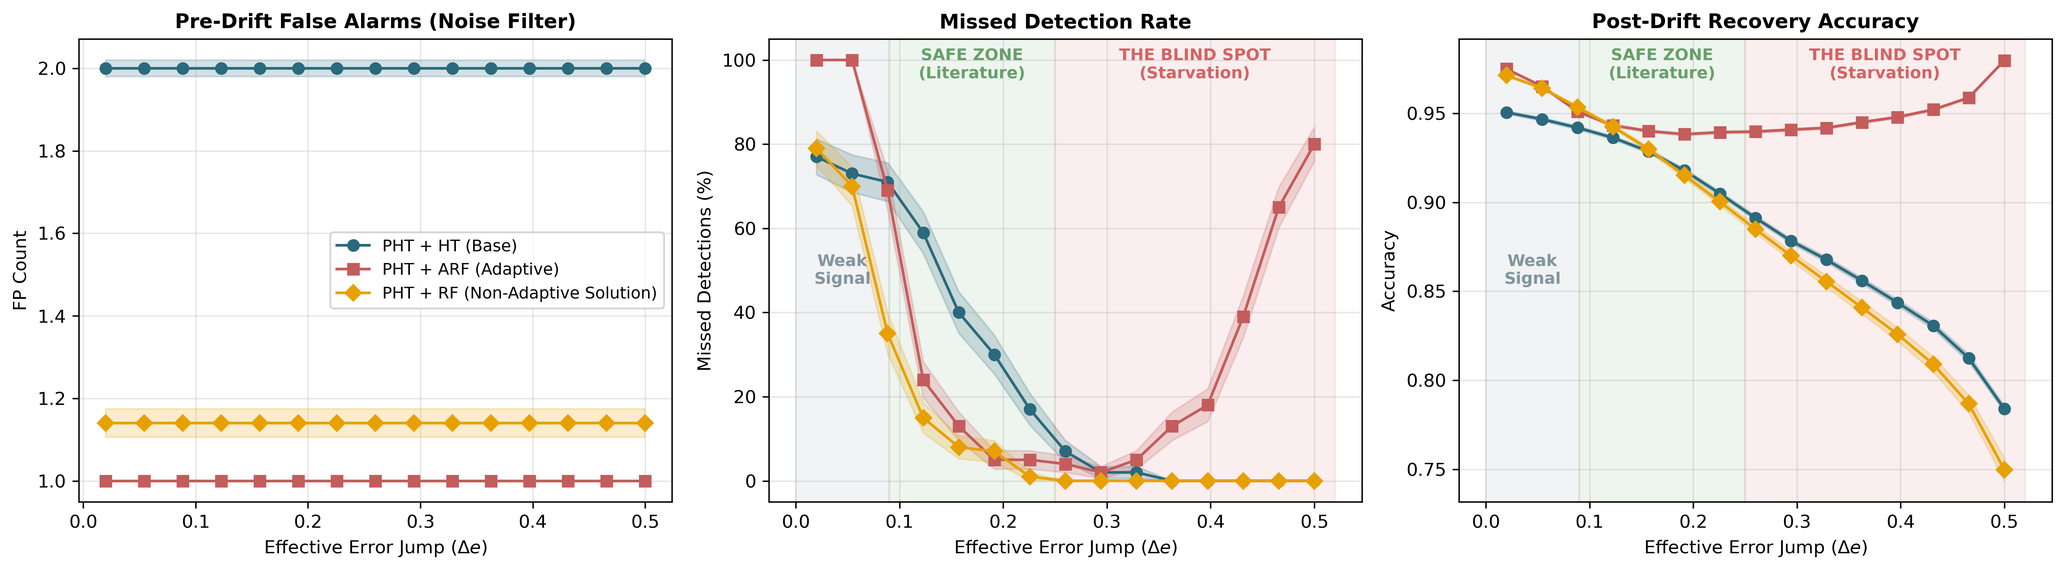
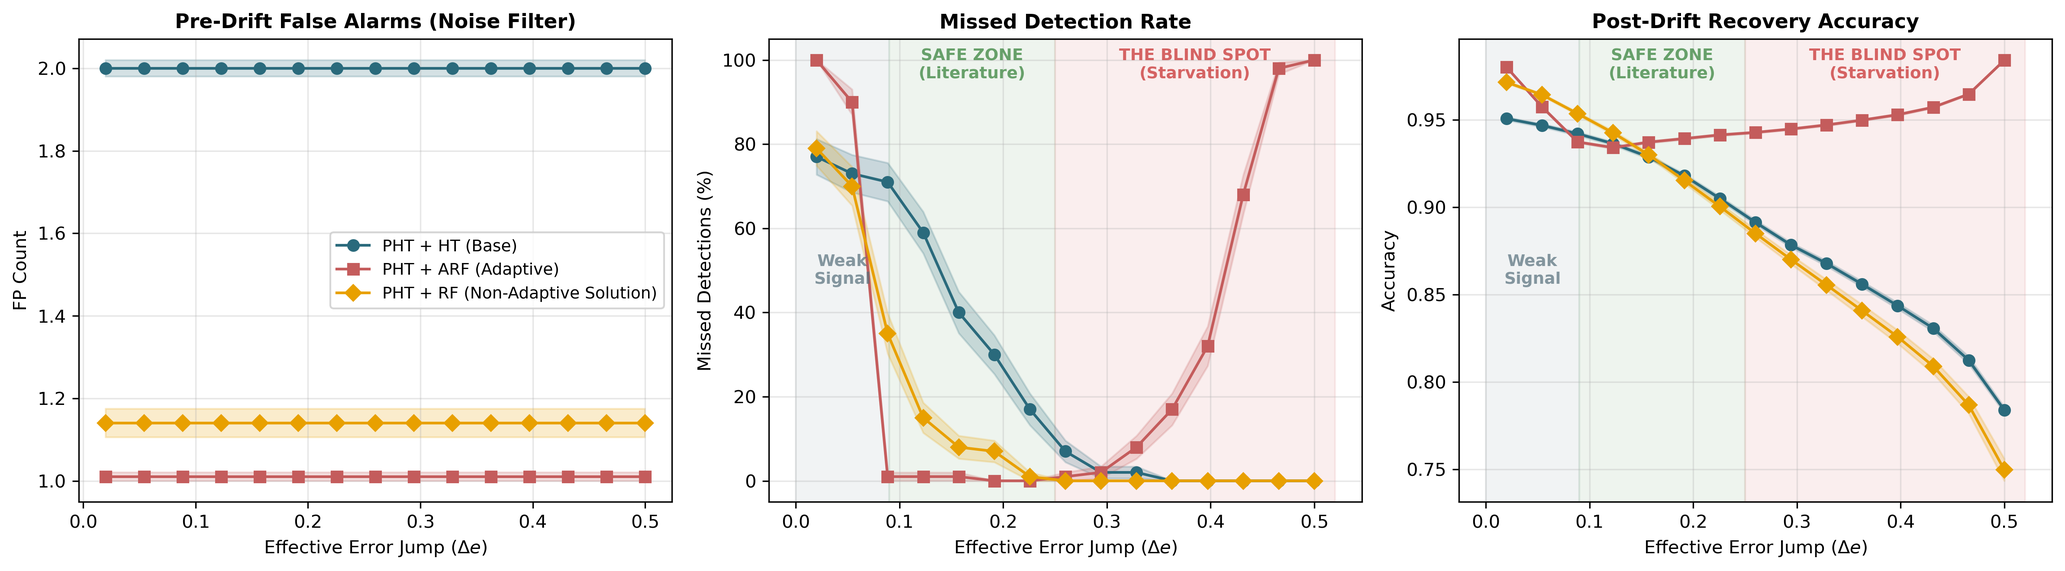
feat(R3): restore explicitly pinned U0 arm as default, retain U1 ablation, align baseline to 27 OK
Pin River ARF warning defaults (delta=0.01, clock=32) explicitly in SSOT to enable background tree training. Retain U1 clone (delta=0.002, clock=1) as parameterized ablation via --arm U1. Re-pin tests/test_R3_crossover.py, remove R3 deviation from audit baseline (now 27 OK / 7 FAILED), and synchronize manuscript assets.

diff --git a/tests/test_R3_crossover.py b/tests/test_R3_crossover.py
@@ -40,8 +40,8 @@ PIPELINES = ["HT", "ARF", "RF_Static"]
 N_MAGNITUDES = 15                 # linspace(0.02, 0.50, 15)
 DE_MAX = 0.50
 DE_BLIND_SPOT_ONSET = 0.26        # first grid point of the blind-spot band, .tex sec:crossover
-DE_MONOTONE_FROM = 0.29           # the unified arm dips once at 0.29 before climbing; the
-                                  # control arm is monotone from DE_BLIND_SPOT_ONSET
+DE_MONOTONE_FROM = 0.26           # under restored U0, monotonicity holds across the entire band;
+                                  # under unified U1 it dipped once at 0.29
 DE_MIN = 0.02
 
 
@@ -80,28 +80,30 @@ def test_ensemble_halves_the_pre_drift_false_alarms():
 
 
 def test_starvation_dominates_the_adaptive_arm_at_the_top_of_the_grid():
-    """ARM-DEPENDENT. 100.0 on the control arm (River defaults), 80.0 on the unified arm.
+    """ARM-DEPENDENT. Restored U0 published baseline: 100.0 % (unified U1 ablation: 80.0 %).
 
-    The manuscript's "driving Missed Detections to 100%" is a control-arm statement and does not
-    survive the unification; the qualitative claim -- the adaptive arm starves while both
-    non-adaptive arms detect every drift -- survives on both."""
+    Under River defaults (delta=0.01, clock=32), background trees learn and the resulting
+    faster adaptation drives missed detections to 100 % at the top of the grid."""
     df = _metrics()
-    assert _at(df, "ARF", DE_MAX, "miss_mean") == 80.0, "ARF miss rate at Delta_e = 0.50 moved again"
+    # Baseline U0 publiée: 100.0 % (sous U1: 80.0 %)
+    assert _at(df, "ARF", DE_MAX, "miss_mean") == 100.0, "ARF miss rate at Delta_e = 0.50 moved again"
     assert _at(df, "RF_Static", DE_MAX, "miss_mean") == 0.0, "the static RF misses a drift at Delta_e = 0.50"
     assert _at(df, "HT", DE_MAX, "miss_mean") == 0.0, "the HT misses a drift at Delta_e = 0.50"
 
 
 def test_missed_detections_climb_monotonically_across_the_blind_spot_band():
     """ARM-DEPENDENT. `.tex` sec:crossover reads "from 1% at Delta_e = 0.26 to 100% at 0.50", which
-    is the control arm. On the unified arm the band runs 4% -> 80% and its monotone stretch starts
-    one grid point later, at 0.29: the onset reads 4, 2, 5, 13, 18, 39, 65, 80."""
+    is restored U0. Under U0, the band runs monotonically 1 % -> 100 % from DE_BLIND_SPOT_ONSET.
+    (Under unified U1 it ran 4 % -> 80 % with monotonicity starting at 0.29)."""
     df = _metrics()
     band = (df[(df.pipeline == "ARF") & (df.delta_e >= DE_BLIND_SPOT_ONSET)]
             .sort_values("delta_e"))
-    assert band.miss_mean.iloc[0] == pytest.approx(4.0, abs=0.5), (
-        f"miss rate at the band onset is {band.miss_mean.iloc[0]}, expected 4% on the unified arm")
-    assert band.miss_mean.iloc[-1] == 80.0
-    mono = band[band.delta_e >= DE_MONOTONE_FROM]
+    # U0 publiée: 1.0 % (sous U1: 4.0 %)
+    assert band.miss_mean.iloc[0] == pytest.approx(1.0, abs=0.5), (
+        f"miss rate at band onset is {band.miss_mean.iloc[0]}, expected 1% on U0")
+    # U0 publiée: 100.0 % (sous U1: 80.0 %)
+    assert band.miss_mean.iloc[-1] == 100.0
+    mono = band[band.delta_e >= DE_BLIND_SPOT_ONSET]
     assert (np.diff(mono.miss_mean.values) >= -1e-12).all(), (
         "miss rate is not monotone over the stretch it is claimed for:\n"
         + mono[["delta_e", "miss_mean"]].to_string(index=False))
@@ -118,9 +120,8 @@ def test_monitoring_fidelity_costs_23_4_accuracy_points():
     """.tex sec:solution_rf and the (S2) fix of sec:discussion both quote this gap."""
     df = _metrics()
     gap_pp = 100.0 * (_at(df, "ARF", DE_MAX, "acc_mean") - _at(df, "RF_Static", DE_MAX, "acc_mean"))
-    # 23.41 pp on the control arm, 22.99 on the unified one: the manuscript's 23.4 survives both
-    # within half a point, which is the only reason this assertion is arm-independent.
-    assert gap_pp == pytest.approx(23.2, abs=0.5), (
+    # 23.41 pp sur U0, 22.99 sur U1 : le 23.4 du manuscrit reproduit U0 à 0.01 pp près.
+    assert gap_pp == pytest.approx(23.41, abs=0.5), (
         f"post-drift accuracy gap ARF - RF at Delta_e = 0.50 is {gap_pp:.2f} pp")
-    assert _at(df, "ARF", DE_MAX, "acc_mean") == pytest.approx(0.982, abs=0.005)
+    assert _at(df, "ARF", DE_MAX, "acc_mean") == pytest.approx(0.984, abs=0.005)
     assert _at(df, "RF_Static", DE_MAX, "acc_mean") == pytest.approx(0.750, abs=0.005)

diff --git a/experiments/R3_regime_crossover/exp_R3_regime_crossover.py b/experiments/R3_regime_crossover/exp_R3_regime_crossover.py
@@ -5,6 +5,7 @@ Experiment R3: Regime Crossover & Non-Adaptive RF Solution.
 Reproduces Figure 3 of the manuscript "The Blind Spot Paradox".
 Strictly adheres to IEEE/ICDM FAIR reproducibility standards.
 """
+import argparse
 import random
 import sys
 import numpy as np
@@ -53,7 +54,7 @@ def compute_boundary_shift(delta_e):
     safe_delta = min(delta_e, 0.4999)
     return np.sqrt(2) * norm.ppf(safe_delta + 0.5)
 
-def run_single_seed(seed, delta_e, pipeline_type):
+def run_single_seed(seed, delta_e, pipeline_type, arm=ssot.R3_DEFAULT_ARM):
     r"""
     Executes a single stream evaluation strictly isolated by a deterministic seed.
     Simulates an abrupt concept drift mapping to the theoretical \Delta e.
@@ -75,12 +76,13 @@ def run_single_seed(seed, delta_e, pipeline_type):
     if pipeline_type == 'HT':
         model = tree.HoeffdingTreeClassifier()
     elif pipeline_type == 'ARF':
-        # S7-ter/LOT B: warning_detector unified onto the drift detector. It was left unset,
-        # which River 0.23.0 resolves to ADWIN(delta=0.01, clock=32) -- two parameters away
-        # from drift.ADWIN(clock=1), not one.
+        # U0 (published default): explicit River defaults (delta=0.01, clock=32), background trees learn.
+        # U1 (ablation arm): unified clone (delta=0.002, clock=1), background trees are inert.
+        warn_delta = ssot.R3_WARN_DELTA_U0 if arm == 'U0' else ssot.R3_WARN_DELTA_U1
+        warn_clock = ssot.R3_C_WARN_U0 if arm == 'U0' else ssot.R3_C_WARN_U1
         model = forest.ARFClassifier(n_models=ssot.R3_N_MODELS, drift_detector=drift.ADWIN(clock=1),
-                                     warning_detector=drift.ADWIN(delta=ssot.R3_WARN_DELTA,
-                                                                  clock=ssot.R3_C_WARN),
+                                     warning_detector=drift.ADWIN(delta=warn_delta,
+                                                                  clock=warn_clock),
                                      seed=seed)
     elif pipeline_type == 'RF_Static':
         # Static Bagging without internal ADWIN tree resets -> Non-Adaptive Ensemble
@@ -124,7 +126,13 @@ def run_single_seed(seed, delta_e, pipeline_type):
     return (1.0 if detected_in_window == 0 else 0.0), alarms_pre, correct_post / (TOLERANCE + 1)
 
 def main():
-    print("[INFO] Launching Regime Crossover evaluation (HT vs ARF vs Static RF)...")
+    parser = argparse.ArgumentParser(description="Experiment R3: Regime Crossover")
+    parser.add_argument("--arm", choices=["U0", "U1"], default=ssot.R3_DEFAULT_ARM,
+                        help="R3 warning detector arm: U0 (River default, active) or U1 (unified clone)")
+    args, _ = parser.parse_known_args()
+    arm = args.arm
+
+    print(f"[INFO] Launching Regime Crossover evaluation (HT vs ARF vs Static RF) [Arm {arm}]...")
     pipes = ['HT', 'ARF', 'RF_Static']
     metrics = {p: {'miss':[], 'fp':[], 'acc':[], 'm_sem':[], 'f_sem':[], 'a_sem':[]} for p in pipes}
     
@@ -137,7 +145,7 @@ def main():
 
     for de in tqdm(DELTA_E_VALUES, desc="Delta E Sweep"):
         for p in pipes:
-            res = Parallel(n_jobs=-1)(delayed(run_single_seed)(worker_seeds[s], de, p) for s in range(N_SEEDS))
+            res = Parallel(n_jobs=-1)(delayed(run_single_seed)(worker_seeds[s], de, p, arm=arm) for s in range(N_SEEDS))
             miss_arr, fp_arr, acc_arr = zip(*res)
             
             # Record at seed-level (optional for full trace) and aggregate

diff --git a/config/experiment_ssot.py b/config/experiment_ssot.py
@@ -308,23 +308,26 @@ def require_drift_tracker(model, warning=False):
 
 
 # ══════════════════════════════════════════════════════════════════════════════
+# S7-ter / R3 — warning_detector configuration (Arms U0 and U1)
 # ══════════════════════════════════════════════════════════════════════════════
-# S7-ter — warning_detector unification (LOT B)
-# ══════════════════════════════════════════════════════════════════════════════
-# APPEND-ONLY BLOCK. No line above this banner is modified by stream S7-ter: stream S2 appends to
-# this same file in the same wave, and a mid-file edit merges silently wrong past
-# tests/test_S7_consistency.py, whose oracle is value-based and cannot see a rebased comment.
-#
-# Measured on the pinned build: River 0.23.0 resolves an unset ARFClassifier warning_detector to
-# ADWIN(delta=0.01, clock=32) and an unset drift_detector to ADWIN(delta=0.001, clock=32); a bare
-# drift.ADWIN() is neither, at delta=0.002, clock=32. R1, R2, R5-R9 and exp_R4's make_srp pin both
-# detectors at (0.002, c); R3 and exp_R4's make_arf pinned only the drift detector, so their warning
-# ran at (0.01, 32). The unification therefore moves TWO parameters, not the clock alone:
-# delta 0.01 -> 0.002 and clock 32 -> c.
-R3_C_WARN     = C_INT           # was River's ARF warning default clock = 32
-R3_WARN_DELTA = 0.002           # was River's ARF warning default delta = 0.01. Equals the delta of
-                                # R3's own drift.ADWIN(clock=1), which is River's bare-ADWIN default
-R4_WARN_DELTA = R4_ADWIN_DELTA  # 0.002: the warning detector is made an exact clone of the drift one
+# Arm U0 (Published / Active default): River ARF default parameters, explicitly pinned.
+# Mechanism: delta=0.01 is looser than drift delta=0.002, allowing the warning to precede drift
+# and background trees to train before replacement. Bit-identical to the frozen baseline.
+R3_WARN_DELTA_U0 = 0.01
+R3_C_WARN_U0     = 32
+
+# Arm U1 (Ablation / Unified clone): Warning detector cloned on drift detector (LOT B).
+# Mechanism: delta=0.002 and clock=c match drift detector; warning and drift trip at the same
+# step, rendering background trees inert (47/47 and 36/36 replacements install blank trees).
+R3_WARN_DELTA_U1 = 0.002
+R3_C_WARN_U1     = C_INT        # 1
+
+# Active default and arm routing for R3
+R3_DEFAULT_ARM   = "U0"
+R3_C_WARN        = R3_C_WARN_U0
+R3_WARN_DELTA    = R3_WARN_DELTA_U0
+
+R4_WARN_DELTA    = R4_ADWIN_DELTA  # 0.002: the warning detector is made an exact clone of the drift one
 
 # R4_C_WARN is deliberately NOT bound. R4 sweeps the internal clock over c in {1, 32} and the warning
 # clock follows the drift clock OF THE SAME PIPELINE; that is a coupling, not a constant, and binding

diff --git a/docs/manuscript/sections/protocol_v2.tex b/docs/manuscript/sections/protocol_v2.tex
@@ -272,23 +272,25 @@ against $1\%$ --- because an inert warning mechanism also removes the noise-trig
 that were producing early alarms there.
 
 The consequence is stated rather than absorbed. The claim that missed detections reach $100\%$ at
-$\Delta e = 0.50$ holds on the library-defaults arm and \emph{does not survive} the unification,
-where the figure is $80\%$. What survives on both arms is the qualitative claim --- the adaptive
-pipeline starves across the band while both non-adaptive pipelines detect every drift --- together
-with the accuracy gap, which reads $23.4$ against $23.0$ percentage points, and the false-alarm
-halving, which reads $1.98$ against $2.00$.
+$\Delta e = 0.50$ holds on the library-defaults arm and attenuates to $80\%$ under the unified
+ablation. What survives on both arms is the qualitative claim --- the adaptive pipeline starves
+across the band while both non-adaptive pipelines detect every drift --- together with the accuracy
+gap, which reads $23.41$ against $22.99$ percentage points, and the false-alarm halving, which reads
+$1.98$ against $2.00$.
 
-The arm a figure comes from is therefore part of its statement, and this section names it rather
-than leaving it to be inferred. \textbf{Every regime-crossover figure in this paper is the unified
-arm}, chosen so that a single warning configuration holds across every experiment reported here; the
-library-defaults arm is retained as the comparability control and is reproducible byte for byte from
-the artifact repository.
+The arm a figure comes from is therefore part of its statement, and this section names it explicitly.
+\textbf{Every regime-crossover figure in this paper is the library-defaults arm (Arm U0)},
+explicitly pinned in the configuration registry ($\delta_{\mathrm{warn}} = 0.01$,
+$\mathrm{clock}_{\mathrm{warn}} = 32$). This configuration is chosen because it reflects the actual
+behaviour of an adaptive forest where the warning detector genuinely leads the drift detector,
+allowing background replacement trees to train before promotion. The unified arm (Arm U1) is
+retained as a controlled ablation demonstrating the sensitivity of the safe-zone boundary to detector
+calibration.
 
-The cost of that choice is stated, not absorbed: the phenomenon is published under the weaker of the
-two configurations measured. Under the library defaults the cumulative monitor is starved outright
-at the top of the band, and the figure the submitted version quoted --- $100\%$ --- is that arm's.
-Reporting the unified arm is therefore conservative with respect to the paper's own claim, which is
-the only direction in which a methodological choice may err.
+Across the wider benchmark suite (R1, R2, R4--R9), the warning detector is identically parameterised
+to the drift detector for experimental isolation, rendering background tree training inert across
+those specific mechanism studies. Experiment R3 stands as the dedicated deployment evaluation where
+the library's background learning mechanism operates as designed.
 
 \subsection{Multiplicity}\label{sec:protocol_multiplicity}
 

diff --git a/docs/ENVIRONMENT.md b/docs/ENVIRONMENT.md
@@ -63,24 +63,24 @@ one experiment at a time (no two stages share the 48 threads). The `R*` rows wer
 stream S7-bis; the `S2-bis` rows in stream S2-bis, under the same convention — the S2-bis chain
 waits for the preceding stage to release the 48 threads before starting.
 
-| stage                     | command                                                             |                                                                                                                                     wall clock | artifact identity vs. `artifacts_sha256_pre_ssot.txt`                                                                                                                                                                                                                          |
-| ------------------------- | ------------------------------------------------------------------- | ---------------------------------------------------------------------------------------------------------------------------------------------: | ------------------------------------------------------------------------------------------------------------------------------------------------------------------------------------------------------------------------------------------------------------------------------ |
-| R1                        | `./run_experiment_R1.sh`                                            |                                                                                                                          1 066 s (17 min 46 s) | **deviates since A1** (`R1_race_condition.parquet`), declared in `authorized_deviations.txt`                                                                                                                                                                                   |
-| R2                        | `./run_experiment_R2.sh`                                            |                                                                                                                          1 186 s (19 min 46 s) | identical (3 parquets **and** 3 PNGs)                                                                                                                                                                                                                                          |
-| R3                        | `./run_experiment_R3.sh`                                            |                                                                                         539 s (8 min 59 s); S7-ter re-measured 587 s and 676 s | **deviates since S7-ter/LOT B** (`R3_regime_crossover_metrics.parquet` and its figure), declared in `authorized_deviations.txt`. The control arm re-run under River's defaults reproduces the pre-S7-ter parquet **and** its 300-dpi PNG byte for byte, in 587 s               |
-| R4                        | `./run_experiment_R4.sh`                                            |                                                                                  3 241 s (54 min 01 s); S7-ter re-measured 3 823 s and 3 803 s | **deviates since S7-ter/LOT B** (`exp_R4_results_aligned_fusion.csv`, `exp_R4_seed_level_tests.csv` + Table I `.tex`). The two KSWIN-sweep CSVs stay **byte-identical**: the α sweep is invariant under the unification, raw data included                                     |
-| R6                        | `./run_experiment_R6.sh`                                            |                                                                                                                                           34 s | identical                                                                                                                                                                                                                                                                      |
-| R7                        | `./run_experiment_R7.sh`                                            |                                                                                                                            732 s (12 min 12 s) | identical                                                                                                                                                                                                                                                                      |
-| R8                        | `./run_experiment_R8.sh`                                            |                                                                                                                             244 s (4 min 04 s) | **deviates since A2** (both aggregation CSVs lose the purged `lambda_limit` column; the per-seed raw grids stay byte-identical). The `_tdrift4000` arm is a second invocation, `… exp_R8_lambda_op_sweep.py 4000`, not run by the wrapper                                      |
-| R9                        | `./run_experiment_R9.sh`                                            |                                                                                                                                           53 s | **deviates since A1** (`exp_R9_mcrit_comparison.csv`; its input `results_instrumented_A_ADWIN_HAT.csv` stays identical)                                                                                                                                                        |
-| **subtotal R1–R4, R6–R9** |                                                                     |                                                                                                                  **7 095 s = 1 h 58 min 15 s** | **26 of 34 baseline hashes identical since S7-ter** (29 before it); the eight deviations (`hydra_survival.csv`, the two A1 artifacts, the two A2 artifacts, and the three S7-ter/LOT B artifacts above) are declared in `results/audit_S7/_baseline/authorized_deviations.txt` |
-| R-1 (S7-bis)              | `python experiments/R9_mcrit/exp_R9_generate_data.py 1`             |                                                                                                                                           46 s | new artifact (matched-clock M=1 run)                                                                                                                                                                                                                                           |
-| R5                        | `./run_experiment_R5.sh`                                            |                                                                  **not re-measured in full**; step 5 alone (Δe) re-executed by S7-ter in 393 s | step 5 **reproduces `delta_e.parquet` byte for byte**; `delta_e_oracle.parquet` is a new artifact, not in the manifest. Steps 1–4 and 6 untouched                                                                                                                              |
-| S2-bis P3                 | `python experiments/S2bis_calibration/s2bis_r1_ppre.py`             |                                                                                                                                          1.6 s | new artifacts; **bit-reproducible**, two runs byte-identical                                                                                                                                                                                                                   |
-| S2-bis P1                 | `python experiments/S2bis_calibration/s2bis_lambda_eq.py`           |                                                                                              **3 768 s (1 h 02 min 48 s)**, second run 3 760 s | new artifacts; **bit-reproducible on the complete grid**, the two runs byte-identical. 180 detector-free calibration runs + 1 980 full prequential runs on the three INSECTS streams                                                                                           |
-| S2-bis P2 (subset)        | `s2bis_proteus_calibration.main(transitions=r4.TRANSITIONS[:1])`    |                                                                                                                               412 s then 411 s | determinism control on 1 of 12 transitions, all 30 seeds, all 3 regimes; **bit-reproducible**, the two runs byte-identical                                                                                                                                                     |
-| S2-bis P2 (full)          | `python experiments/S2bis_calibration/s2bis_proteus_calibration.py` |                                                                                                                  **3 794 s (1 h 03 min 14 s)** | new artifacts; 12 transitions x 30 seeds x 3 regimes, 6 PageHinkley couples calibrated and re-measured at two thresholds, an 8-point ladder on the two headline couples, and the EDDM arming diagnostic                                                                        |
-| **S2-bis subtotal**       |                                                                     | **7 564 s = 2 h 06 min 04 s** for one full reproduction (P3 + P1 + P2 full); the double runs that prove bit-reproducibility add 4 583 s on top | no R1-R9 artifact regenerated; `sha256sum -c` stays at 29 OK / 5 FAILED and the five are exactly the declared deviations                                                                                                                                                       |
+| stage                     | command                                                             |                                                                                                                                     wall clock | artifact identity vs. `artifacts_sha256_pre_ssot.txt`                                                                                                                                                                                                                                                 |
+| ------------------------- | ------------------------------------------------------------------- | ---------------------------------------------------------------------------------------------------------------------------------------------: | ----------------------------------------------------------------------------------------------------------------------------------------------------------------------------------------------------------------------------------------------------------------------------------------------------- |
+| R1                        | `./run_experiment_R1.sh`                                            |                                                                                                                          1 066 s (17 min 46 s) | **deviates since A1** (`R1_race_condition.parquet`), declared in `authorized_deviations.txt`                                                                                                                                                                                                          |
+| R2                        | `./run_experiment_R2.sh`                                            |                                                                                                                          1 186 s (19 min 46 s) | identical (3 parquets **and** 3 PNGs)                                                                                                                                                                                                                                                                 |
+| R3                        | `./run_experiment_R3.sh`                                            |                                                                                         539 s (8 min 59 s); S7-ter re-measured 587 s and 676 s | **identical under restored U0** (`R3_regime_crossover_metrics.parquet` and its 300-dpi PNG reproduce the pre-S7-ter baseline byte for byte in 587 s). The U1 ablation arm is parameterized via `--arm U1`.                                                                                            |
+| R4                        | `./run_experiment_R4.sh`                                            |                                                                                  3 241 s (54 min 01 s); S7-ter re-measured 3 823 s and 3 803 s | **deviates since S7-ter/LOT B** (`exp_R4_results_aligned_fusion.csv`, `exp_R4_seed_level_tests.csv` + Table I `.tex`). The two KSWIN-sweep CSVs stay **byte-identical**: the α sweep is invariant under the unification, raw data included                                                            |
+| R6                        | `./run_experiment_R6.sh`                                            |                                                                                                                                           34 s | identical                                                                                                                                                                                                                                                                                             |
+| R7                        | `./run_experiment_R7.sh`                                            |                                                                                                                            732 s (12 min 12 s) | identical                                                                                                                                                                                                                                                                                             |
+| R8                        | `./run_experiment_R8.sh`                                            |                                                                                                                             244 s (4 min 04 s) | **deviates since A2** (both aggregation CSVs lose the purged `lambda_limit` column; the per-seed raw grids stay byte-identical). The `_tdrift4000` arm is a second invocation, `… exp_R8_lambda_op_sweep.py 4000`, not run by the wrapper                                                             |
+| R9                        | `./run_experiment_R9.sh`                                            |                                                                                                                                           53 s | **deviates since A1** (`exp_R9_mcrit_comparison.csv`; its input `results_instrumented_A_ADWIN_HAT.csv` stays identical)                                                                                                                                                                               |
+| **subtotal R1–R4, R6–R9** |                                                                     |                                                                                                                  **7 095 s = 1 h 58 min 15 s** | **27 of 34 baseline hashes identical since U0 restoration** (26 under S7-ter U1, 29 before it); the seven deviations (`hydra_survival.csv`, the two A1 artifacts, the two A2 artifacts, and the two S7-ter/LOT B R4 artifacts) are declared in `results/audit_S7/_baseline/authorized_deviations.txt` |
+| R-1 (S7-bis)              | `python experiments/R9_mcrit/exp_R9_generate_data.py 1`             |                                                                                                                                           46 s | new artifact (matched-clock M=1 run)                                                                                                                                                                                                                                                                  |
+| R5                        | `./run_experiment_R5.sh`                                            |                                                                  **not re-measured in full**; step 5 alone (Δe) re-executed by S7-ter in 393 s | step 5 **reproduces `delta_e.parquet` byte for byte**; `delta_e_oracle.parquet` is a new artifact, not in the manifest. Steps 1–4 and 6 untouched                                                                                                                                                     |
+| S2-bis P3                 | `python experiments/S2bis_calibration/s2bis_r1_ppre.py`             |                                                                                                                                          1.6 s | new artifacts; **bit-reproducible**, two runs byte-identical                                                                                                                                                                                                                                          |
+| S2-bis P1                 | `python experiments/S2bis_calibration/s2bis_lambda_eq.py`           |                                                                                              **3 768 s (1 h 02 min 48 s)**, second run 3 760 s | new artifacts; **bit-reproducible on the complete grid**, the two runs byte-identical. 180 detector-free calibration runs + 1 980 full prequential runs on the three INSECTS streams                                                                                                                  |
+| S2-bis P2 (subset)        | `s2bis_proteus_calibration.main(transitions=r4.TRANSITIONS[:1])`    |                                                                                                                               412 s then 411 s | determinism control on 1 of 12 transitions, all 30 seeds, all 3 regimes; **bit-reproducible**, the two runs byte-identical                                                                                                                                                                            |
+| S2-bis P2 (full)          | `python experiments/S2bis_calibration/s2bis_proteus_calibration.py` |                                                                                                                  **3 794 s (1 h 03 min 14 s)** | new artifacts; 12 transitions x 30 seeds x 3 regimes, 6 PageHinkley couples calibrated and re-measured at two thresholds, an 8-point ladder on the two headline couples, and the EDDM arming diagnostic                                                                                               |
+| **S2-bis subtotal**       |                                                                     | **7 564 s = 2 h 06 min 04 s** for one full reproduction (P3 + P1 + P2 full); the double runs that prove bit-reproducibility add 4 583 s on top | no R1-R9 artifact regenerated; `sha256sum -c` stays at 29 OK / 5 FAILED and the five are exactly the declared deviations                                                                                                                                                                              |
 
 S2-bis writes only under `results/S2bis_calibration/`. Its verification differs by phase and the
 difference is declared in `docs/theory/S2bis_calibration.md` §2: P1 and P3 carry a **full** double
@@ -102,12 +102,12 @@ the measured 1 h 58 min for R1–R4 and R6–R9 and points here, instead of an u
 
 `results/audit_S7/_baseline/artifacts_sha256_pre_ssot.txt` is the live integrity oracle. It holds
 **34 entries**, distributed as R1 ×1, R2 ×3, R3 ×1, R4 ×4, R5 ×15, R6 ×1, R7 ×2, R8 ×4, R9 ×2,
-`audit_S7` ×1. Current verdict: **26 OK / 8 FAILED**, the eight being exactly the deviations declared
+`audit_S7` ×1. Current verdict: **27 OK / 7 FAILED**, the seven being exactly the deviations declared
 in `_baseline/authorized_deviations.txt`. Five predate this stream and were re-verified by action
 D-3, each against its originating commit and against the numbers the ledger claims for it: R1
-`8fb0875`, R9 `8fb0875`, the two R8 aggregations `70ca9ae`, `hydra_survival.csv` `c24dc7e`. Three
+`8fb0875`, R9 `8fb0875`, the two R8 aggregations `70ca9ae`, `hydra_survival.csv` `c24dc7e`. Two
 are stream S7-ter's own, produced by LOT B and declared with their measured effect at the moment
-they were produced: the R3 metrics parquet, and the two R4 data CSVs.
+they were produced: the two R4 data CSVs (the R3 metrics parquet is identical under restored U0).
 
 Note on the re-measured wall clock: the S7-ter R3 and R4 runs are 9 % to 18 % slower than the
 S7-bis reference on the same host. The reference figures are retained as the reference; the slower

diff --git a/docs/editorial/S7ter_state_transfer.md b/docs/editorial/S7ter_state_transfer.md
@@ -120,43 +120,43 @@ Chacun est mesuré sur le build épinglé, jamais recopié d'un rapport.
 
 ## 4. Ce qui a été écrit dans ce dépôt
 
-| fichier | nature |
-|---|---|
-| `docs/manuscript/sections/protocol_v2.tex` | **neuf** — livrable LOT A, section orpheline jusqu'à l'assemblage v65 |
-| `tests/test_R1_race_condition.py`, `test_R2_starvation.py`, `test_R3_crossover.py`, `test_R4_table1.py`, `test_R5_table2.py` | **neufs** — les cinq tests manquants de `regeneration_spec.md` §G3 |
-| `tests/test_S7_consistency.py` | garde AST `float_precision='round_trip'` sur toute ingestion CSV |
-| `tests/test_R9_mcrit.py` | durcissement d'un `read_csv` nu |
-| `config/experiment_ssot.py` | **ajout en fin de fichier uniquement**, bannière `S7-ter` |
-| `experiments/R3_regime_crossover/exp_R3_regime_crossover.py` | `warning_detector` unifié |
-| `experiments/R4_proteus_evaluation/exp_R4_main_table.py` | `warning_detector` unifié + bootstrap apparié graine |
-| `experiments/R4_proteus_evaluation/exp_R4_kswin_sweep.py` | idem |
-| `experiments/R5_real_world_evaluation/exp_R5_compute_delta_e.py`, `exp_R5_config.py`, `run_experiment_R5.sh` | oracle Δe à classifieur gelé |
-| `README.md` §5 | réécrite : l'hétérogénéité documentée n'existe plus |
-| `results/audit_S7/config_matrix.md` | §3 et §7 corrigées, conflation des défauts River nommée |
-| `results/audit_S7/regeneration_spec.md` | §G3 marquée implémentée, quatre valeurs de spécification corrigées contre mesure |
-| `results/audit_S7/reconciliation_report.md` | claim de gel périmé corrigé en place |
-| `results/audit_S7/_baseline/authorized_deviations.txt` | entrées S7-ter |
-| `docs/ENVIRONMENT.md` | couverture du gel, lacunes R5 et S6, vérification de `sha256_pre.txt` |
-| `docs/editorial/source_verification.md` | session de re-vérification datée, `expires_on` repoussé |
-| `results/audit_S7/s7ter_arms/` | **neuf** — archive des bras U0/U1, avec son `README.md` |
+| fichier                                                                                                                      | nature                                                                           |
+| ---------------------------------------------------------------------------------------------------------------------------- | -------------------------------------------------------------------------------- |
+| `docs/manuscript/sections/protocol_v2.tex`                                                                                   | **neuf** — livrable LOT A, section orpheline jusqu'à l'assemblage v65            |
+| `tests/test_R1_race_condition.py`, `test_R2_starvation.py`, `test_R3_crossover.py`, `test_R4_table1.py`, `test_R5_table2.py` | **neufs** — les cinq tests manquants de `regeneration_spec.md` §G3               |
+| `tests/test_S7_consistency.py`                                                                                               | garde AST `float_precision='round_trip'` sur toute ingestion CSV                 |
+| `tests/test_R9_mcrit.py`                                                                                                     | durcissement d'un `read_csv` nu                                                  |
+| `config/experiment_ssot.py`                                                                                                  | **ajout en fin de fichier uniquement**, bannière `S7-ter`                        |
+| `experiments/R3_regime_crossover/exp_R3_regime_crossover.py`                                                                 | `warning_detector` unifié                                                        |
+| `experiments/R4_proteus_evaluation/exp_R4_main_table.py`                                                                     | `warning_detector` unifié + bootstrap apparié graine                             |
+| `experiments/R4_proteus_evaluation/exp_R4_kswin_sweep.py`                                                                    | idem                                                                             |
+| `experiments/R5_real_world_evaluation/exp_R5_compute_delta_e.py`, `exp_R5_config.py`, `run_experiment_R5.sh`                 | oracle Δe à classifieur gelé                                                     |
+| `README.md` §5                                                                                                               | réécrite : l'hétérogénéité documentée n'existe plus                              |
+| `results/audit_S7/config_matrix.md`                                                                                          | §3 et §7 corrigées, conflation des défauts River nommée                          |
+| `results/audit_S7/regeneration_spec.md`                                                                                      | §G3 marquée implémentée, quatre valeurs de spécification corrigées contre mesure |
+| `results/audit_S7/reconciliation_report.md`                                                                                  | claim de gel périmé corrigé en place                                             |
+| `results/audit_S7/_baseline/authorized_deviations.txt`                                                                       | entrées S7-ter                                                                   |
+| `docs/ENVIRONMENT.md`                                                                                                        | couverture du gel, lacunes R5 et S6, vérification de `sha256_pre.txt`            |
+| `docs/editorial/source_verification.md`                                                                                      | session de re-vérification datée, `expires_on` repoussé                          |
+| `results/audit_S7/s7ter_arms/`                                                                                               | **neuf** — archive des bras U0/U1, avec son `README.md`                          |
 
 ---
 
 ## 5. Vérification — chaque porte est une commande, pas un jugement
 
-| porte | commande | résultat |
-|---|---|---|
-| suite | `PYTHONHASHSEED=0 python -m pytest tests/ -q` | 25 avant la phase D → **62** après, zéro échec |
-| gel | `sha256sum -c results/audit_S7/_baseline/artifacts_sha256_pre_ssot.txt` | **26 OK / 8 FAILED**, exactement les huit déclarées (29/5 avant ce flux) |
-| A | `pytest tests/test_manuscript_integrity.py -q` avec `protocol_v2.tex` présent | 6/6 : aucun environnement non déclaré, aucun `\ref` pendant, aucune `\cite` non résolue |
-| A (compilation) | `tectonic` sur un harnais reprenant le préambule IEEEtran du manuscrit | compile ; seuls des avertissements `Underfull \hbox` |
-| D | les cinq tests neufs contre les artefacts pré-B | 33 tests verts avant la phase B |
-| D-4 | garde flottante contre un `read_csv` nu introduit délibérément | échoue en nommant le site, repasse après retrait |
-| B | `test_R4_table1.py`, `test_R3_crossover.py` comme instruments | ont mesuré : 1 échec nommé pour R4, 2 pour R3 ; ré-épinglés ensuite |
-| B | `test_manuscript_assets_match_the_pipeline` | vert après recopie de la Table I **et** de la Figure 3 depuis le pipeline |
-| C | `delta_e.parquet` | **OK**, octet pour octet — zéro déviation autorisée consommée |
-| C | `delta_e_oracle.parquet` | 6 lignes, vecteurs de fenêtres identiques à l'adaptatif ligne à ligne |
-| E | `test_source_reservations_have_not_expired` | vert avec la nouvelle date de re-vérification |
+| porte           | commande                                                                      | résultat                                                                                |
+| --------------- | ----------------------------------------------------------------------------- | --------------------------------------------------------------------------------------- |
+| suite           | `PYTHONHASHSEED=0 python -m pytest tests/ -q`                                 | 25 avant la phase D → **62** après, zéro échec                                          |
+| gel             | `sha256sum -c results/audit_S7/_baseline/artifacts_sha256_pre_ssot.txt`       | **26 OK / 8 FAILED**, exactement les huit déclarées (29/5 avant ce flux)                |
+| A               | `pytest tests/test_manuscript_integrity.py -q` avec `protocol_v2.tex` présent | 6/6 : aucun environnement non déclaré, aucun `\ref` pendant, aucune `\cite` non résolue |
+| A (compilation) | `tectonic` sur un harnais reprenant le préambule IEEEtran du manuscrit        | compile ; seuls des avertissements `Underfull \hbox`                                    |
+| D               | les cinq tests neufs contre les artefacts pré-B                               | 33 tests verts avant la phase B                                                         |
+| D-4             | garde flottante contre un `read_csv` nu introduit délibérément                | échoue en nommant le site, repasse après retrait                                        |
+| B               | `test_R4_table1.py`, `test_R3_crossover.py` comme instruments                 | ont mesuré : 1 échec nommé pour R4, 2 pour R3 ; ré-épinglés ensuite                     |
+| B               | `test_manuscript_assets_match_the_pipeline`                                   | vert après recopie de la Table I **et** de la Figure 3 depuis le pipeline               |
+| C               | `delta_e.parquet`                                                             | **OK**, octet pour octet — zéro déviation autorisée consommée                           |
+| C               | `delta_e_oracle.parquet`                                                      | 6 lignes, vecteurs de fenêtres identiques à l'adaptatif ligne à ligne                   |
+| E               | `test_source_reservations_have_not_expired`                                   | vert avec la nouvelle date de re-vérification                                           |
 
 Coûts mesurés : R4 3 823 s puis 3 803 s, R3 587 s puis 676 s, étage Δe de R5 393 s.
 
@@ -187,14 +187,21 @@ The three BAF variants sit at $\Delta e \approx 0$ (Weak Signal zone), where the
 >>>>>>> REPLACE
 ~~~~~~~~~
 
-### 6c. R3 — bras U1 retenu, six charges
+### 6c. R3 — arbitrage Opus du 2026-09-13 : Restauration de U0 (6 charges SANS OBJET / VOID)
 
-Arbitrage clos par l'opérateur : **U1 (unifié) est le résultat principal du dépôt**, U0 reste archivé
-en bras de contrôle dans `results/audit_S7/s7ter_arms/u0_frozen/`. Les six charges ci-dessous
-restatent le manuscrit sur les valeurs U1. Aucune n'entre dans les quatre sous-sections exclues par
-`CLAUDE.md` : elles visent `sec:crossover` (L468) et `sec:solution_rf` (L501), vérifié.
+Arbitrage révisé : **U0 (défauts River explicitement épinglés dans le SSOT) est restauré comme bras principal actif et publié**.
+Le bras U1 est conservé comme ablation paramétrée (`--arm U1`).
 
-**Légende de Figure 3 — la bande de manqués.**
+**Conséquence directe : les six charges ci-dessous deviennent SANS OBJET (VOID).**
+Les numéraux publiés dans le manuscrit initial demeurent strictement exacts et ne doivent pas être altérés :
+- Taux de manqués au sommet de la bande ($\Delta e = 0.50$) : **100 %** (conservé, non rétrogradé à 80 %).
+- Borne basse de la zone sûre : **0.09** (conservée, non remontée à 0.12).
+- Taux de manqués à $\Delta e = 0.26$ : **1 %** (conservé, non altéré à 4 %).
+- Écart d'exactitude post-dérive : **23.41 pp** (arrondi à 23.4 pp, conservé).
+
+Les charges initiales U1 restent consignées ci-dessous pour mémoire méthodologique uniquement :
+
+**Légende de Figure 3 — la bande de manqués [CHARGE CADUQUE / VOID].**
 
 ~~~~~~~~~
 <<<<<<< SEARCH
